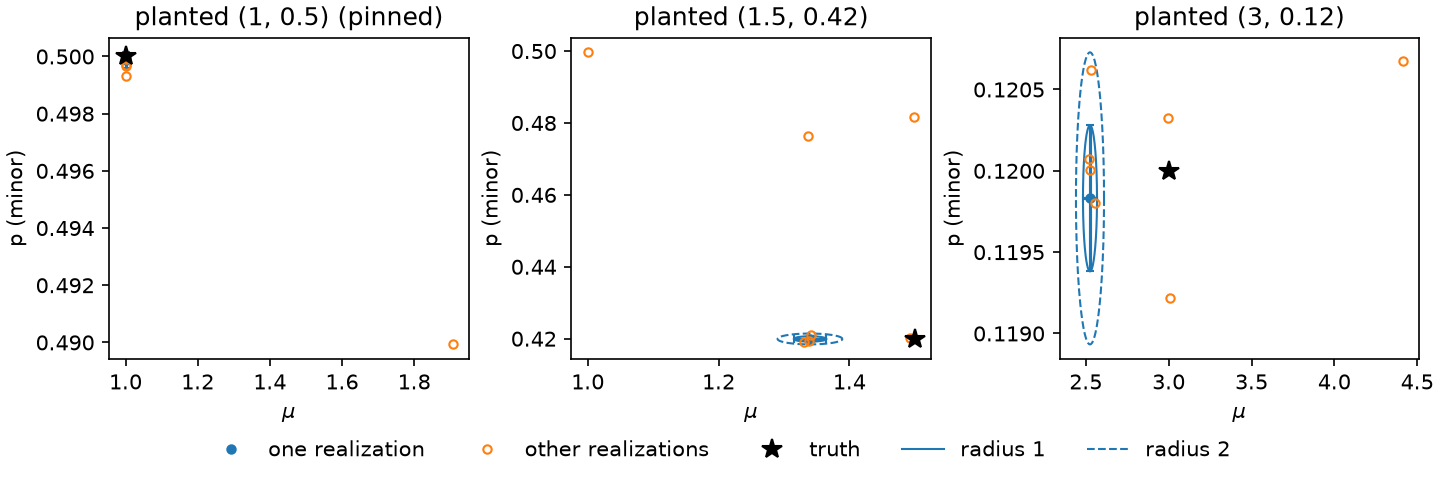
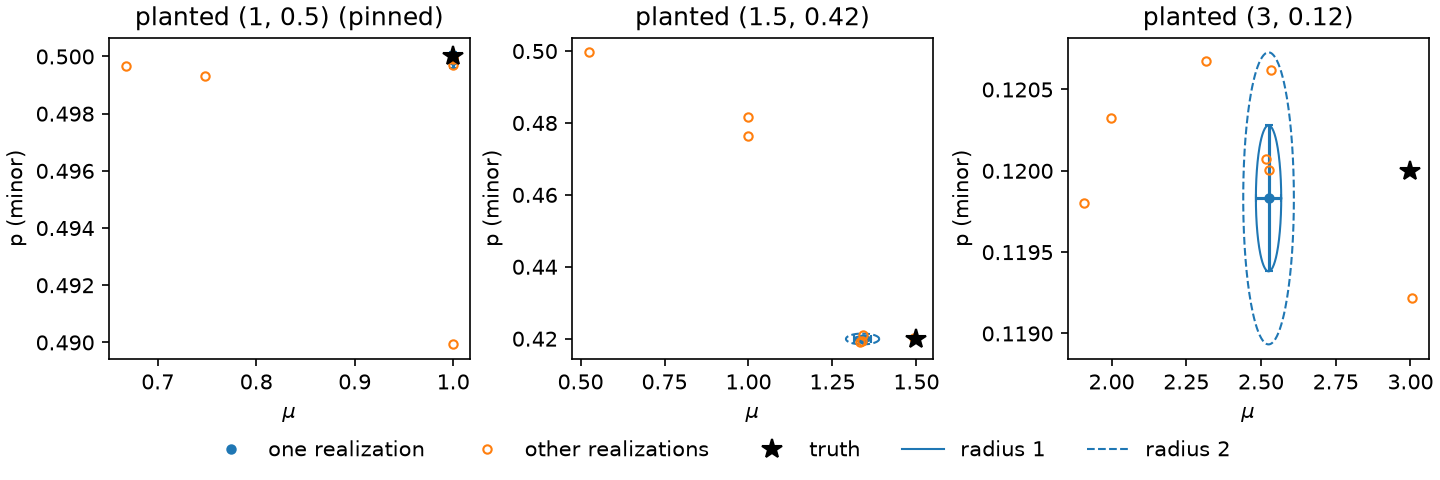
Regenerate every figure in docs/plots on each PR, the realizations included (#296)
`figures.yml` now also runs `python -m tests.realizations
--realizations 8 --jobs 1`, one process per realization at 4.7 GB each,
one at a time. The job timeout goes from 30 to 45 minutes. A fork's
artifact carries the .png and .npz files as well as the PDFs.

The realization figures committed here are regenerated on current code:
#301's fixture and #300's pin rule. Realization 4, which carries the
errors, is unchanged: pinned mu (1, 1.340, 2.525), Newton decrement
2.4e-02. Three others change:

- realization 0 now pins the true neutral state, but planted 1.5 matches
  a fitted state at 0.525;
- realizations 2 and 7 pin the state their normal clone decodes most to.
  Responsibility matching assigns that state to planted (1.5, 0.42), so
  the neutral state reads 0.748 and 0.667.

Built on #305, without which `generate_plots` hangs.

Claude-Session: https://claude.ai/code/session_01JXaY8ogGJw3Lo2bAgEaAaH

diff --git a/docs/plots/README.md b/docs/plots/README.md
@@ -4,9 +4,13 @@
 the pipeline shows up as a change to a picture.** Nineteen of them, written at
 every stage of the run rather than at the end.
 
-**CI regenerates them on every pull request and commits the result** to the
-pull request's branch (`.github/workflows/figures.yml`, #296). By hand:
-`python -m tests.generate_plots`, or `--cnaster` for plain `cnaster`.
+**CI regenerates every figure here on every pull request and commits the
+result** to the pull request's branch (`.github/workflows/figures.yml`,
+#296): the nineteen below, and `realizations.png`, `realizations_truth.png`
+and `realizations.npz`, eight runs of one planted genome with the
+likelihood's errors on one run and on the truth (#291). By hand:
+`python -m tests.generate_plots` (`--cnaster` for plain `cnaster`) and
+`python -m tests.realizations`.
 
 ## The instance
 
@@ -18,8 +22,9 @@ data carries is what a real run does anyway.
 State zero is planted diploid and balanced, `mu = 1` and `p = 0.5`. Without
 one the run does not reach these figures at all (#106).
 
-Through `run_cnaster_port` with its defaults, the shift included: 109 s end to
-end and a peak of 6.92 GB (#296). Plain `cnaster` measured 31 s and 5.89 GB.
+Through `run_cnaster_port` with its defaults, the shift included: 54 s end to
+end and a peak of 4.25 GB (#304). Plain `cnaster` measured 31 s and 5.89 GB
+before #298's normal clone, which made it loop forever (#304).
 
 ## What they are, and are not
 
